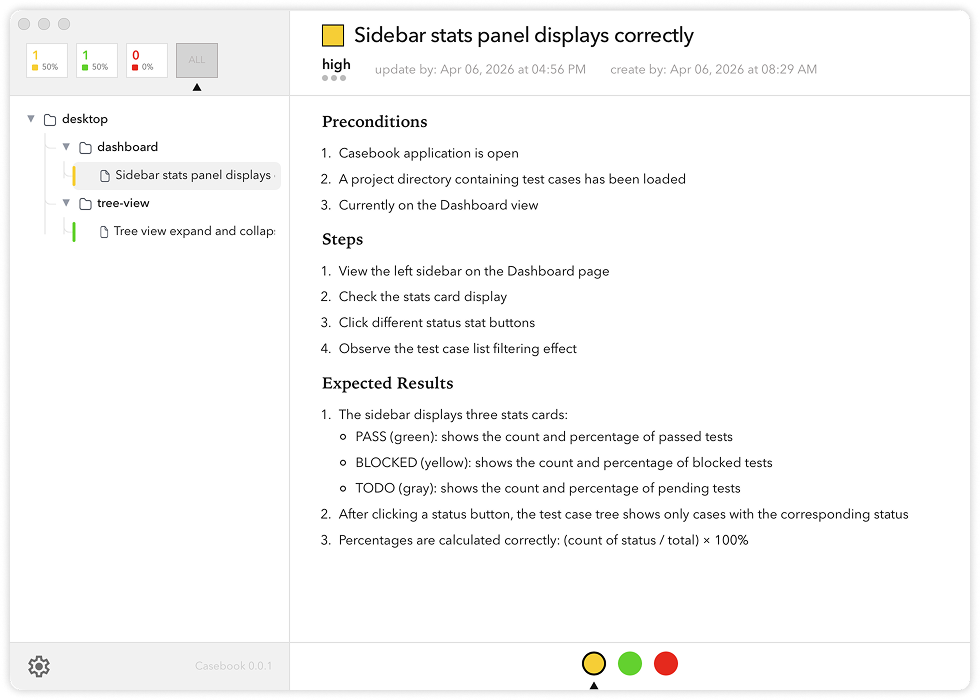
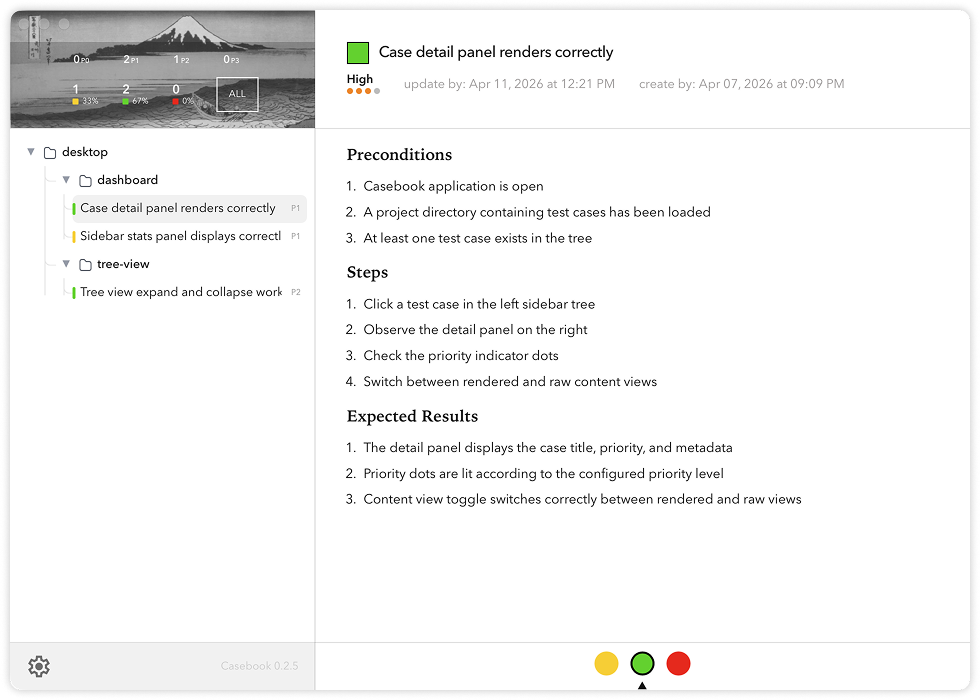
style: fix status-dot selected border color and update dashboard screenshot
- Revert status-dot active border to black (#000000)
- Update bookcase_dashboard.png asset

diff --git a/src/style.css b/src/style.css
@@ -1613,7 +1613,7 @@ code {
 }
 
 .status-dot[data-active='true'] {
-  border-color: white;
+  border-color: #000000;
 }
 
 .status-dot[data-active='true']::after {
